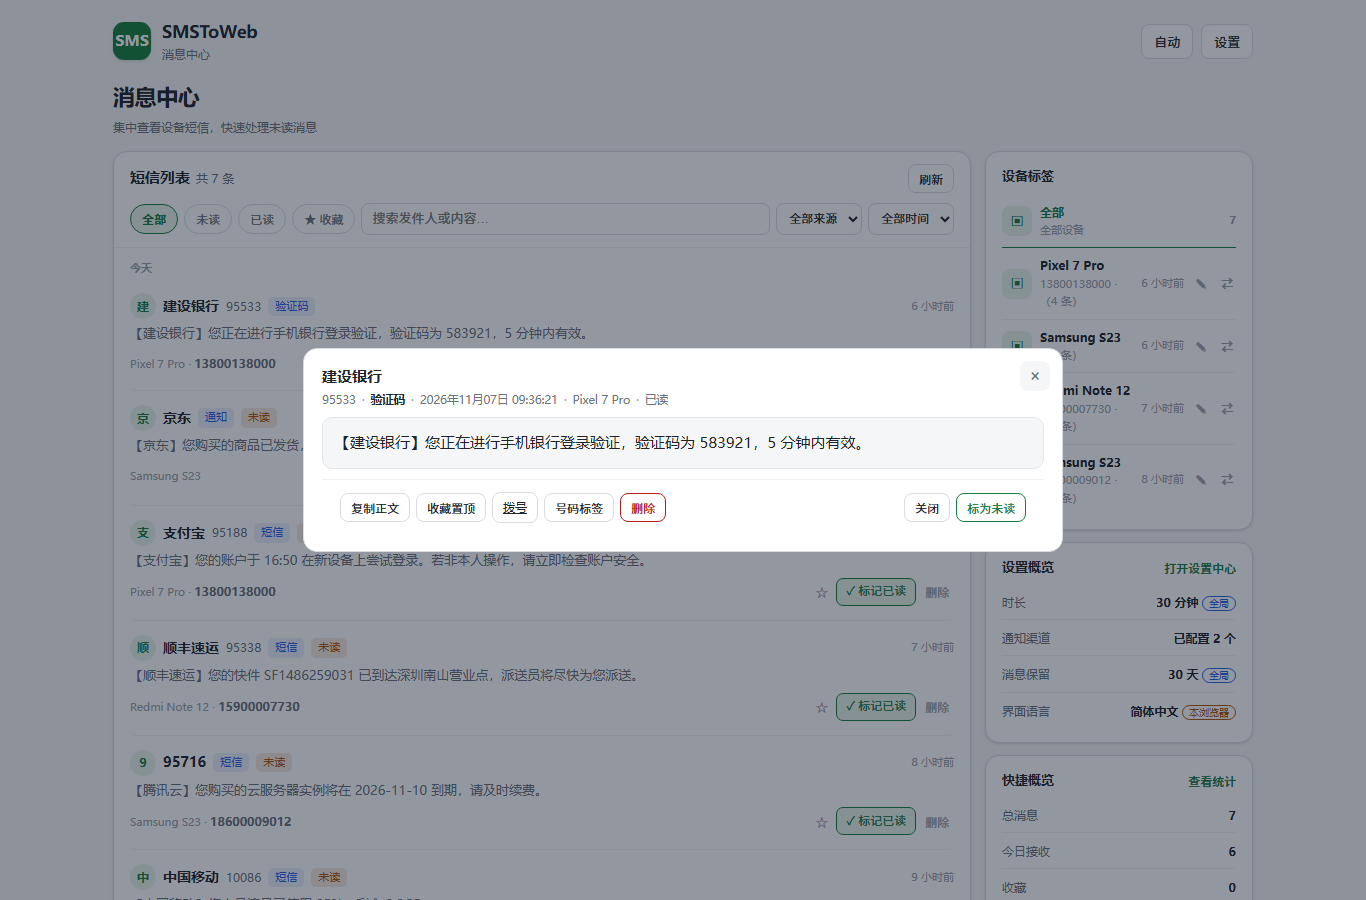
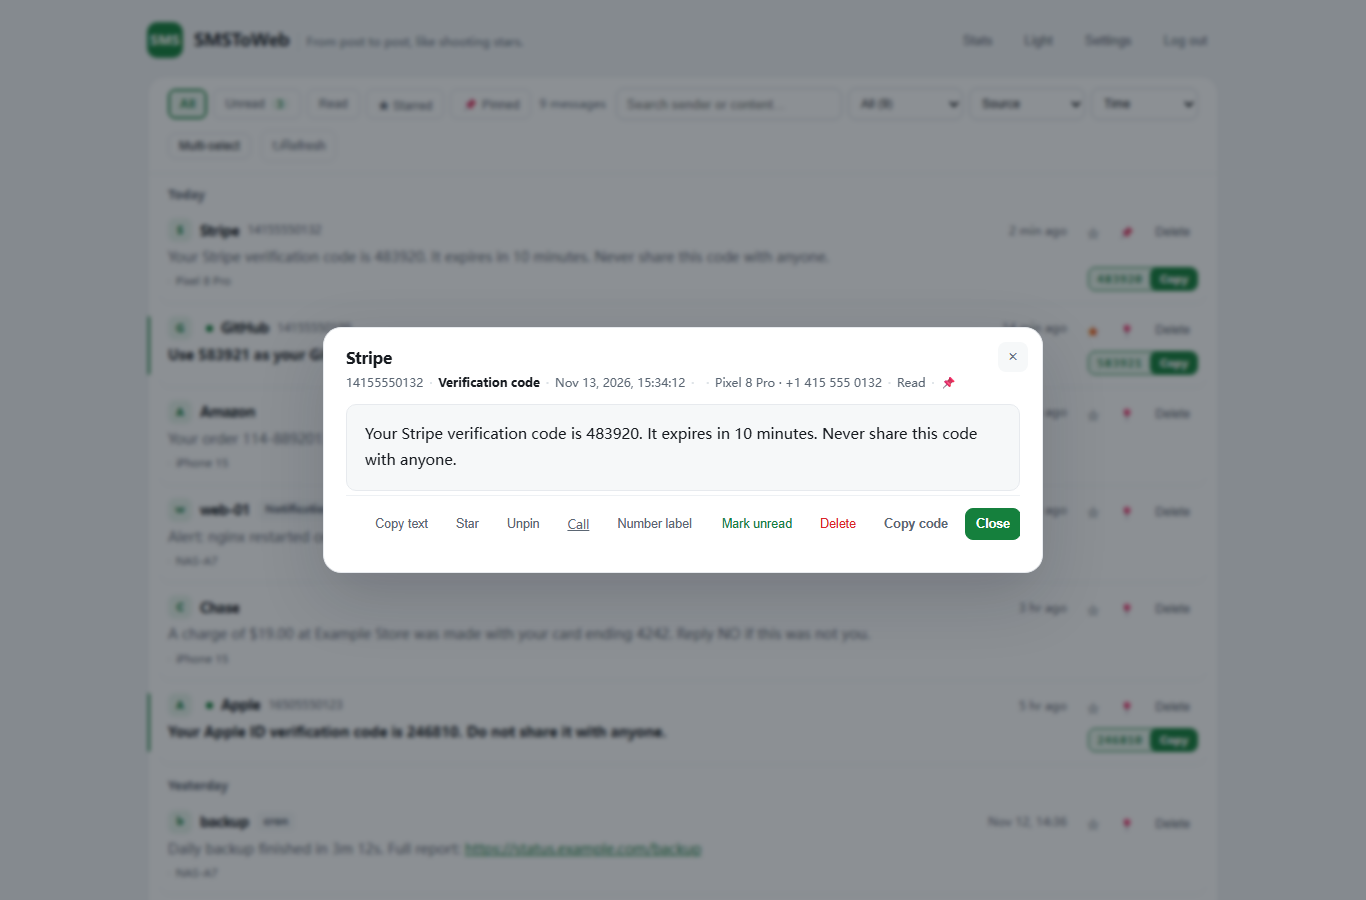
docs(readme): 重拍 6 张截图为英文界面/英文示例数据，同步过时描述
- 从 src/worker.js 抽取真实 PAGE_HTML + CDP 交互截图，界面语言 en、页脚 v1.1.5
- overview / multi-select / detail / settings / notification-targets / mobile 全部替换
- 新截图体现：右侧栏已移除、Pinned 独立筛选、验证码右下方胶囊、详情 Copy code、设置中心 7 个 tab、Alerts 多目标
- 移动端视口 390 -> 430，避免英文 Multi-select 文案遮挡 Starred 标签
- README 同步 5 处过时表述 + 截图段落加英文/示例数据说明
- 无代码改动，gen_app --check 零漂移，全量 Node 回归通过

diff --git a/README.md b/README.md
@@ -11,18 +11,20 @@ SMSToWeb collects messages from any channel — SMS forwarders, app notification
 - **Universal push**: any device that can send an HTTP request (Linux / Windows / macOS / iOS / NAS / scripts) can push notifications into the same page
 - **Sources & filters**: filter dynamically by source (SMS / notifications and custom sources auto-aggregated), stacked with keyword search and Today / Last 7 days / Last 30 days ranges; adjustable page size
 - **Message list**: **10 messages per page by default**; each card shows a **two-line summary (up to 120 codepoints, Unicode-safe)** and opens the full text in a detail dialog; a **Load more** button appends older messages progressively (cursor pagination, no full-history fetch); opening a message marks it read (failure rolls back and reports instead of faking success)
-- **Verification code**: codes are detected server-side (Chinese / English / mixed, 4–8 digits, separator and alphanumeric forms, phone/order/amount/date noise stripped) and shown in the card header with a one-tap copy button; copy uses the Clipboard API with an `execCommand` fallback and reports failure instead of faking success
-- **Pagination consistency**: the cursor carries a **SHA-256 fingerprint of the starred ID set**; if starring changes mid-session, the server rejects the stale cursor with `409 CURSOR_STALE` and the page reloads from the top, so messages are never skipped or duplicated (starred-pinned ordering is unchanged)
-- **Multi-channel forwarding**: new messages can be auto-forwarded to Feishu / WeCom / DingTalk / Telegram / ServerChan / PushPlus / Bark / ntfy / Gotify / Email / generic Webhook — configured in the admin **Settings → Notifications** page (stored in your database, per-channel enable/disable, **multiple independent targets per channel**, credential update, per-target test send); one failing target does not block the others, and legacy environment variables are still honoured when no database value exists
+- **Verification code**: codes are detected server-side (Chinese / English / mixed, 4–8 digits, separator and alphanumeric forms, phone/order/amount/date noise stripped) and shown in a highlighted chip at the bottom-right of each card with a one-tap copy button; the detail dialog always offers a **Copy code** action regardless of that setting; copy uses the Clipboard API with an `execCommand` fallback and reports failure instead of faking success
+- **Pagination consistency**: the cursor carries a **SHA-256 fingerprint of the starred ID set**; if starring changes mid-session, the server rejects the stale cursor with `409 CURSOR_STALE` and the page reloads from the top, so messages are never skipped or duplicated (list order is pinned → time → id; starring no longer affects ordering)
+- **Multi-channel forwarding**: new messages can be auto-forwarded to Feishu / WeCom / DingTalk / Telegram / ServerChan / PushPlus / Bark / ntfy / Gotify / Email / generic Webhook — configured in the admin **Settings → Alerts** page (stored in your database, per-channel enable/disable, **multiple independent targets per channel**, credential update, per-target test send); one failing target does not block the others, and legacy environment variables are still honoured when no database value exists
 - **Optional security**: admin login toggle, multi-format OTP code extraction (code-first / keyword-first / segmented / mixed, false-positive resistant) with one-tap copy, dark mode
 - **Data & alerts**: export CSV / JSON by current filter; toast / optional sound / floating pill for new messages while visible, browser notification + unread title while hidden; long messages show a short summary and open the full text in a detail dialog
 - **Number recognition**: built-in directory of common institutional numbers (carriers / banks / couriers / government) auto-labeled; optional carrier-region lookup for unknown mobile numbers (on by default, can be disabled)
 - **9 languages**: the admin and login pages ship with zh-CN / zh-TW / en / ja / ko / es / fr / de / pt-BR built in; switch from **Settings → Language** on the admin page (browser-scoped, `?lang=` deep link supported, choice remembered locally); dates, relative times and directory labels switch along
 - **Mobile friendly**: `viewport-fit` safe-area support for notches and gesture bars, 16px inputs to prevent iOS auto-zoom, larger touch targets, bottom-sheet dialogs, PWA add-to-home-screen
-- **Bulk & undo**: checkboxes and the bulk bar stay hidden until you right-click / long-press a message; batch mark-read, delete, clear-by-filter and CSV/JSON export for the current filter; 5-second undo after deletion (soft delete); dark mode with auto / light / dark
-- **Starred / unread / stats**: star to pin, starred-only / unread-only views, stats panel (source breakdown + last 7 days); custom number labels; search highlight and history; do-not-disturb and sound in settings; PWA
+- **Bulk & undo**: a **Multi-select** toolbar button, right-click or long-press reveals the checkboxes and bulk bar; batch mark-read, delete, clear-by-filter and CSV/JSON export for the current filter; 5-second undo after deletion (soft delete); dark mode with auto / light / dark
+- **Starred / pinned / unread / stats**: bookmark and pin are independent actions with their own buttons and filters; starred-only / pinned-only / unread-only views, stats panel (source breakdown + last 7 days); custom number labels; search highlight and history; do-not-disturb and sound in settings; PWA
 
 ## Screenshots
+
+> Screenshots show the **English UI with sample data** (v1.1.5). Change the interface language under **Settings → Display → Language**.
 
 **Message center overview**
 
